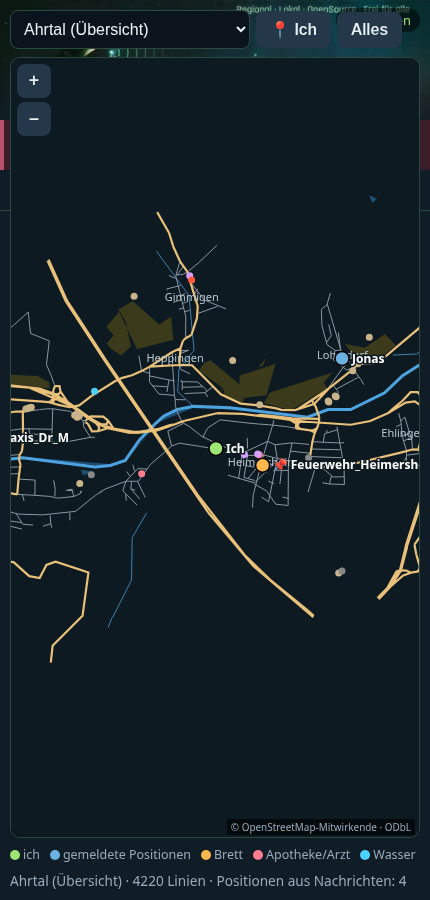
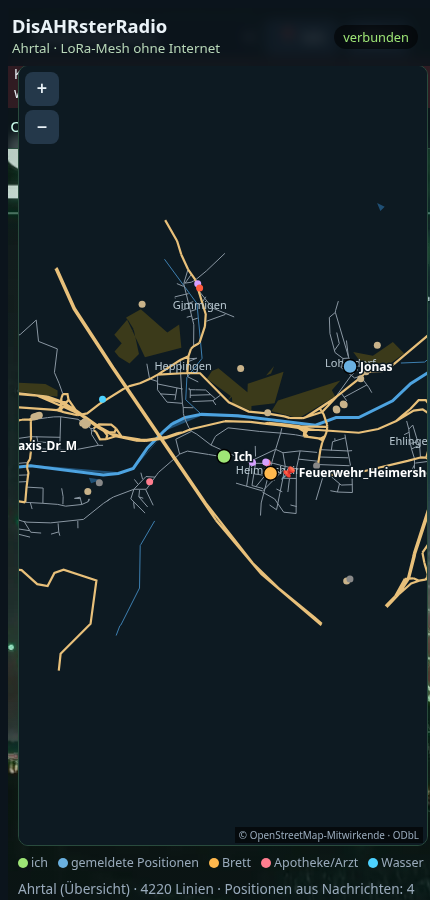
Weboberfläche: Foto als vollflächiger Hintergrund, schmale Titelleiste, transparente Flächen

diff --git a/web/static/index.html b/web/static/index.html
@@ -4,19 +4,21 @@
 <title>DisAHRsterRadio · Ahrtal</title>
 <link rel="icon" href="icon.png">
 <style>
-:root{font-family:system-ui,-apple-system,sans-serif;color:#eaf2f7;background:#101d27;color-scheme:dark;--line:#294b3d;--mesh:#9ee576;--sage:#b7d6b7;--wine:#b7506b;--card:#16283a}
-*{box-sizing:border-box}body{margin:0;min-height:100vh;display:flex;flex-direction:column}
-header{position:relative;height:120px;background:#0b141c url(header.jpg) center/cover}
-header .t{position:absolute;inset:auto 0 0 0;padding:8px 12px;background:linear-gradient(transparent,#101d27e0)}
-header h1{margin:0;font-size:1.3rem}header small{color:var(--sage)}
-#st{position:absolute;top:8px;right:10px;padding:3px 9px;border-radius:12px;font-size:.8rem;background:#0008}
+:root{font-family:system-ui,-apple-system,sans-serif;color:#eaf2f7;color-scheme:dark;--line:#294b3d;--mesh:#9ee576;--sage:#b7d6b7;--wine:#b7506b;--card:#14263ad9}
+*{box-sizing:border-box}body{margin:0;min-height:100vh;display:flex;flex-direction:column}html{background:#0b141c}
+body::before{content:"";position:fixed;inset:0;z-index:-2;background:#0b141c url(bg.jpg) 58% 80%/cover no-repeat;background-image:image-set(url(bg.webp) type("image/webp"),url(bg.jpg) type("image/jpeg"))}
+body::after{content:"";position:fixed;inset:0;z-index:-1;background:linear-gradient(180deg,#0b141c55 0%,#0b141c00 40%,#0b141c00 70%,#0b141c88 100%)}
+@media (min-width:900px){body{max-width:900px;margin:0 auto;width:100%}body::before{background-position:center 55%}}
+header{position:sticky;top:0;z-index:5;display:flex;align-items:center;gap:8px;padding:8px 12px;background:#0b141ccc;backdrop-filter:blur(6px);-webkit-backdrop-filter:blur(6px)}
+header .t{flex:1}header h1{margin:0;font-size:1.15rem;line-height:1.1}header small{color:var(--sage)}
+#st{padding:3px 9px;border-radius:12px;font-size:.8rem;background:#0008}
 #st.ok{color:var(--mesh)}#st.bad{color:#ff9aa8}
-.warn{background:#3a1d26;border-left:4px solid var(--wine);padding:6px 10px;font-size:.85rem}
-nav{display:flex;border-bottom:1px solid var(--line);overflow-x:auto}nav button{flex:1 0 auto;background:none;border:0;color:#cfe;padding:10px 6px;font-size:.95rem;border-bottom:3px solid transparent}
+.warn{background:#3a1d26cc;border-left:4px solid var(--wine);padding:6px 10px;font-size:.85rem}
+nav{display:flex;background:#0b141cb0;backdrop-filter:blur(6px);-webkit-backdrop-filter:blur(6px);border-bottom:1px solid var(--line);overflow-x:auto}nav button{flex:1 0 auto;background:none;border:0;color:#cfe;padding:10px 6px;font-size:.95rem;border-bottom:3px solid transparent}
 nav button.on{border-color:var(--mesh);color:var(--mesh)}
-main{flex:1;display:flex;flex-direction:column;min-height:0}section{display:none;padding:10px;flex:1;flex-direction:column;gap:8px}section.on{display:flex}
+main{flex:1;display:flex;flex-direction:column;min-height:0}section{display:none;padding:10px;margin:8px;border-radius:12px;background:transparent;flex:1;flex-direction:column;gap:8px}section.on{display:flex}
 #log{flex:1;overflow-y:auto;min-height:200px;display:flex;flex-direction:column;gap:5px}
-.m{background:var(--card);border-radius:8px;padding:6px 9px;max-width:92%;word-wrap:break-word}.m.self{align-self:flex-end;background:#1f3d2c}.m.sys{align-self:center;background:none;color:#9ab;font-size:.85rem}
+.m{background:var(--card);border-radius:8px;padding:6px 9px;max-width:92%;word-wrap:break-word}.m.self{align-self:flex-end;background:#1f3d2cdd}.m.sys{align-self:center;background:#0b141c99;color:#9ab;font-size:.85rem}
 .m .n{color:var(--mesh);font-weight:600;margin-right:4px}.m .tm{color:#789;font-size:.7rem;margin-left:6px}.m .pend{color:#fc6}
 form{display:flex;gap:6px}input,select,textarea{flex:1;background:#0b141c;color:#eaf2f7;border:1px solid var(--line);border-radius:8px;padding:9px;font-size:1rem}
 button.b{background:var(--mesh);color:#102;border:0;border-radius:8px;padding:9px 14px;font-weight:600;font-size:1rem}button.b2{background:#24384a;color:#eaf2f7}
@@ -34,7 +36,7 @@ h2{margin:4px 0;font-size:1.05rem}
 #mapctl{position:absolute;left:6px;top:6px;display:flex;flex-direction:column;gap:4px}#mapctl button{width:34px;height:34px;padding:0;font-size:1.1rem}
 .legend{font-size:.78rem;color:#9ab;display:flex;gap:10px;flex-wrap:wrap}.legend i{display:inline-block;width:10px;height:10px;border-radius:50%;margin-right:3px;vertical-align:-1px}
 </style></head><body>
-<header><div id="st" class="bad">getrennt</div><div class="t"><h1>DisAHRsterRadio</h1><small>Ahrtal · LoRa-Mesh-Chat ohne Internet</small></div></header>
+<header><div class="t"><h1>DisAHRsterRadio</h1><small>Ahrtal · LoRa-Mesh ohne Internet</small></div><div id="st" class="bad">getrennt</div></header>
 <div class="warn">Kein zertifiziertes Notrufsystem. In Lebensgefahr immer <b>112</b> wählen, wenn irgendwie möglich.</div>
 <nav><button data-tab="chat" class="on">Chat</button><button data-tab="quick">Schnellmeldung</button><button data-tab="board">Brett</button><button data-tab="map">Karte</button><button data-tab="loc">Standort</button><button data-tab="info">Gerät</button></nav>
 <main>
